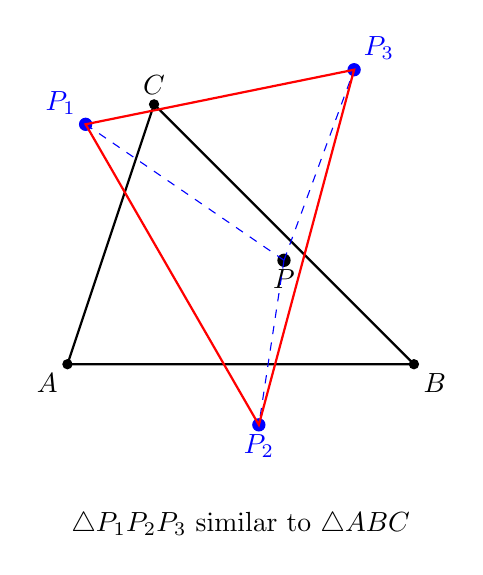
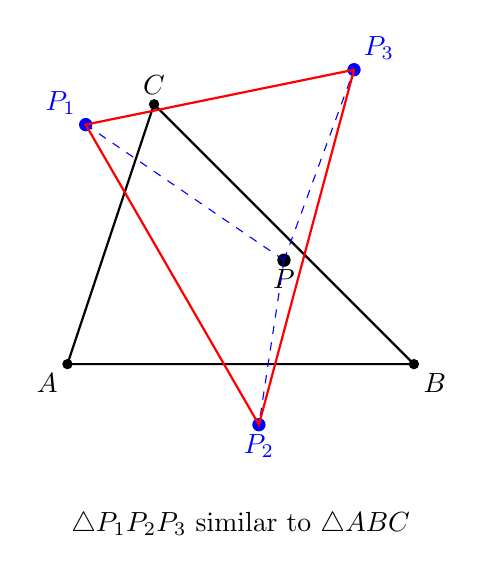
fix(articles): No21 例1 证明补全 + 图6 精确坐标
- 例1：补上 m3-m2 完整推导（系数分解）与 ū²(2-u)=-(1+u)、
  ū²(1+u)=1-2u 恒等式验证，证明逻辑连贯；删去多余的√3括注
- 图6：P1/P2/P3 从近似坐标改为精确坐标（0.2108,2.7651 等）
- 全部恒等式程序验证通过

diff --git a/No21_复数在平面几何中的运用.md b/No21_复数在平面几何中的运用.md
@@ -69,15 +69,21 @@ $$m_2 = \frac{2b + c + (c-b)u}{3}, \qquad m_3 = \frac{2c + a + (a-c)u}{3}.$$
 
 $$m_2 - m_1 = \frac{(2b+c+(c-b)u) - (2a+b+(b-a)u)}{3} = \frac{b+c-2a + (a+c-2b)u}{3}.$$
 
-整理，把 $b+c-2a$ 拆成 $(b-a)$ 与 $(c-b)$ 的组合（$b+c-2a = 2(b-a)+(c-b)$），$a+c-2b = -(b-a)+(c-b)$：
+把 $b+c-2a$ 拆成 $(b-a)$ 与 $(c-b)$ 的组合（$b+c-2a = 2(b-a)+(c-b)$，$a+c-2b = -(b-a)+(c-b)$）：
 
 $$m_2 - m_1 = \frac{(b-a)(2-u) + (c-b)(1+u)}{3}.$$
 
-（注意 $1+u$ 与 $2-u$ 都是模长 $\sqrt3$ 的复数，但这里我们不需要显式算它们——只需看到 $m_2-m_1$ 是 $(b-a)$ 与 $(c-b)$ 的复系数线性组合。）
+**再算 $m_3 - m_2$**，同理（$a+c-2b = -(b-a)-2(c-b)$，$a+b-2c = -(b-a)-2(c-b)$）：
 
-再算 $m_3 - m_2$，同样整理得
+$$m_3 - m_2 = \frac{(b-a)(-1-u) + (c-b)(1-2u)}{3}.$$
 
-$$m_3 - m_2 = e^{-i\frac{2\pi}{3}} \cdot (m_2 - m_1) = \bar u^2 (m_2 - m_1).$$
+**比较两者**——关键的一步：验证 $m_3 - m_2 = \bar u^2 (m_2 - m_1)$（其中 $\bar u^2 = e^{-i\frac{2\pi}{3}}$）。展开右边：
+
+$$\bar u^2 (m_2-m_1) = \frac{(b-a)\bar u^2(2-u) + (c-b)\bar u^2(1+u)}{3}.$$
+
+利用 $u = e^{i\pi/3}$ 的恒等式：$\bar u^2(2-u) = -1-u$，$\bar u^2(1+u) = 1-2u$（直接乘开验证）——恰好等于 $m_3-m_2$ 的两个系数。所以
+
+$$m_3 - m_2 = \bar u^2 (m_2 - m_1).$$
 
 **$m_3 - m_2$ 是 $m_2 - m_1$ 旋转 $-120°$ 且模不变**——所以 $|m_1m_2| = |m_2m_3|$，且夹角 $120°$。同理第三边相等。**$M_1M_2M_3$ 是等边三角形。** ∎
 
